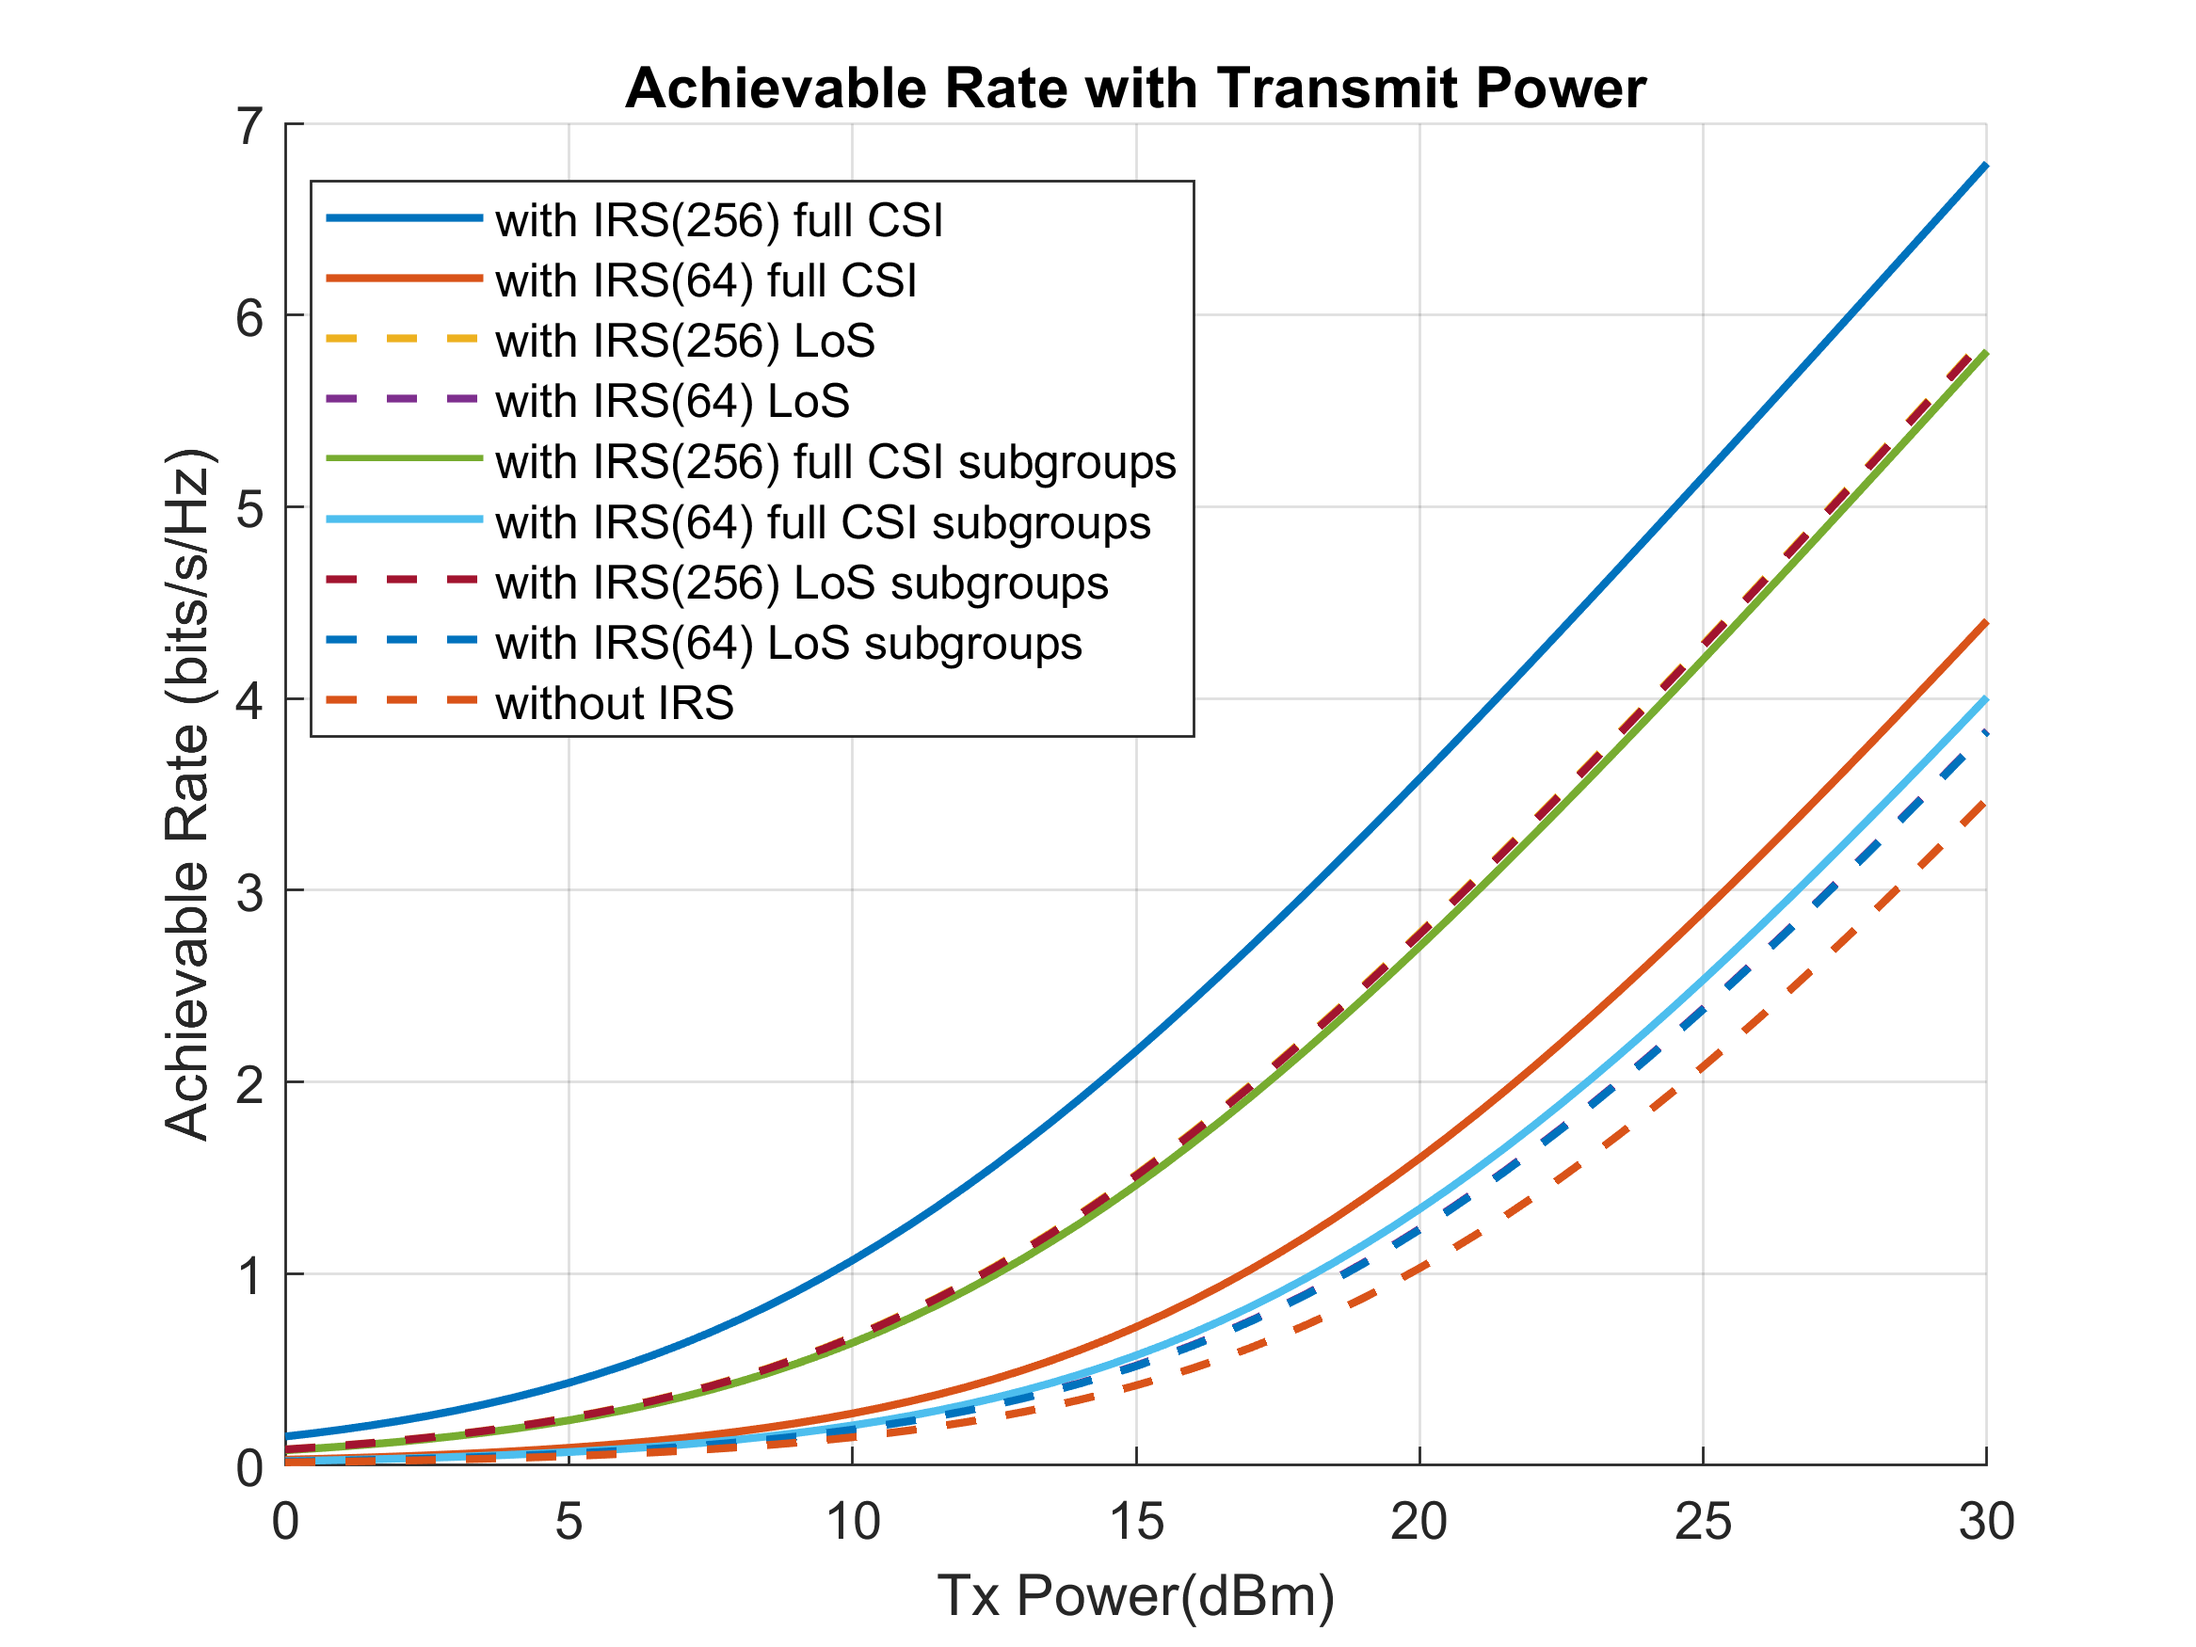
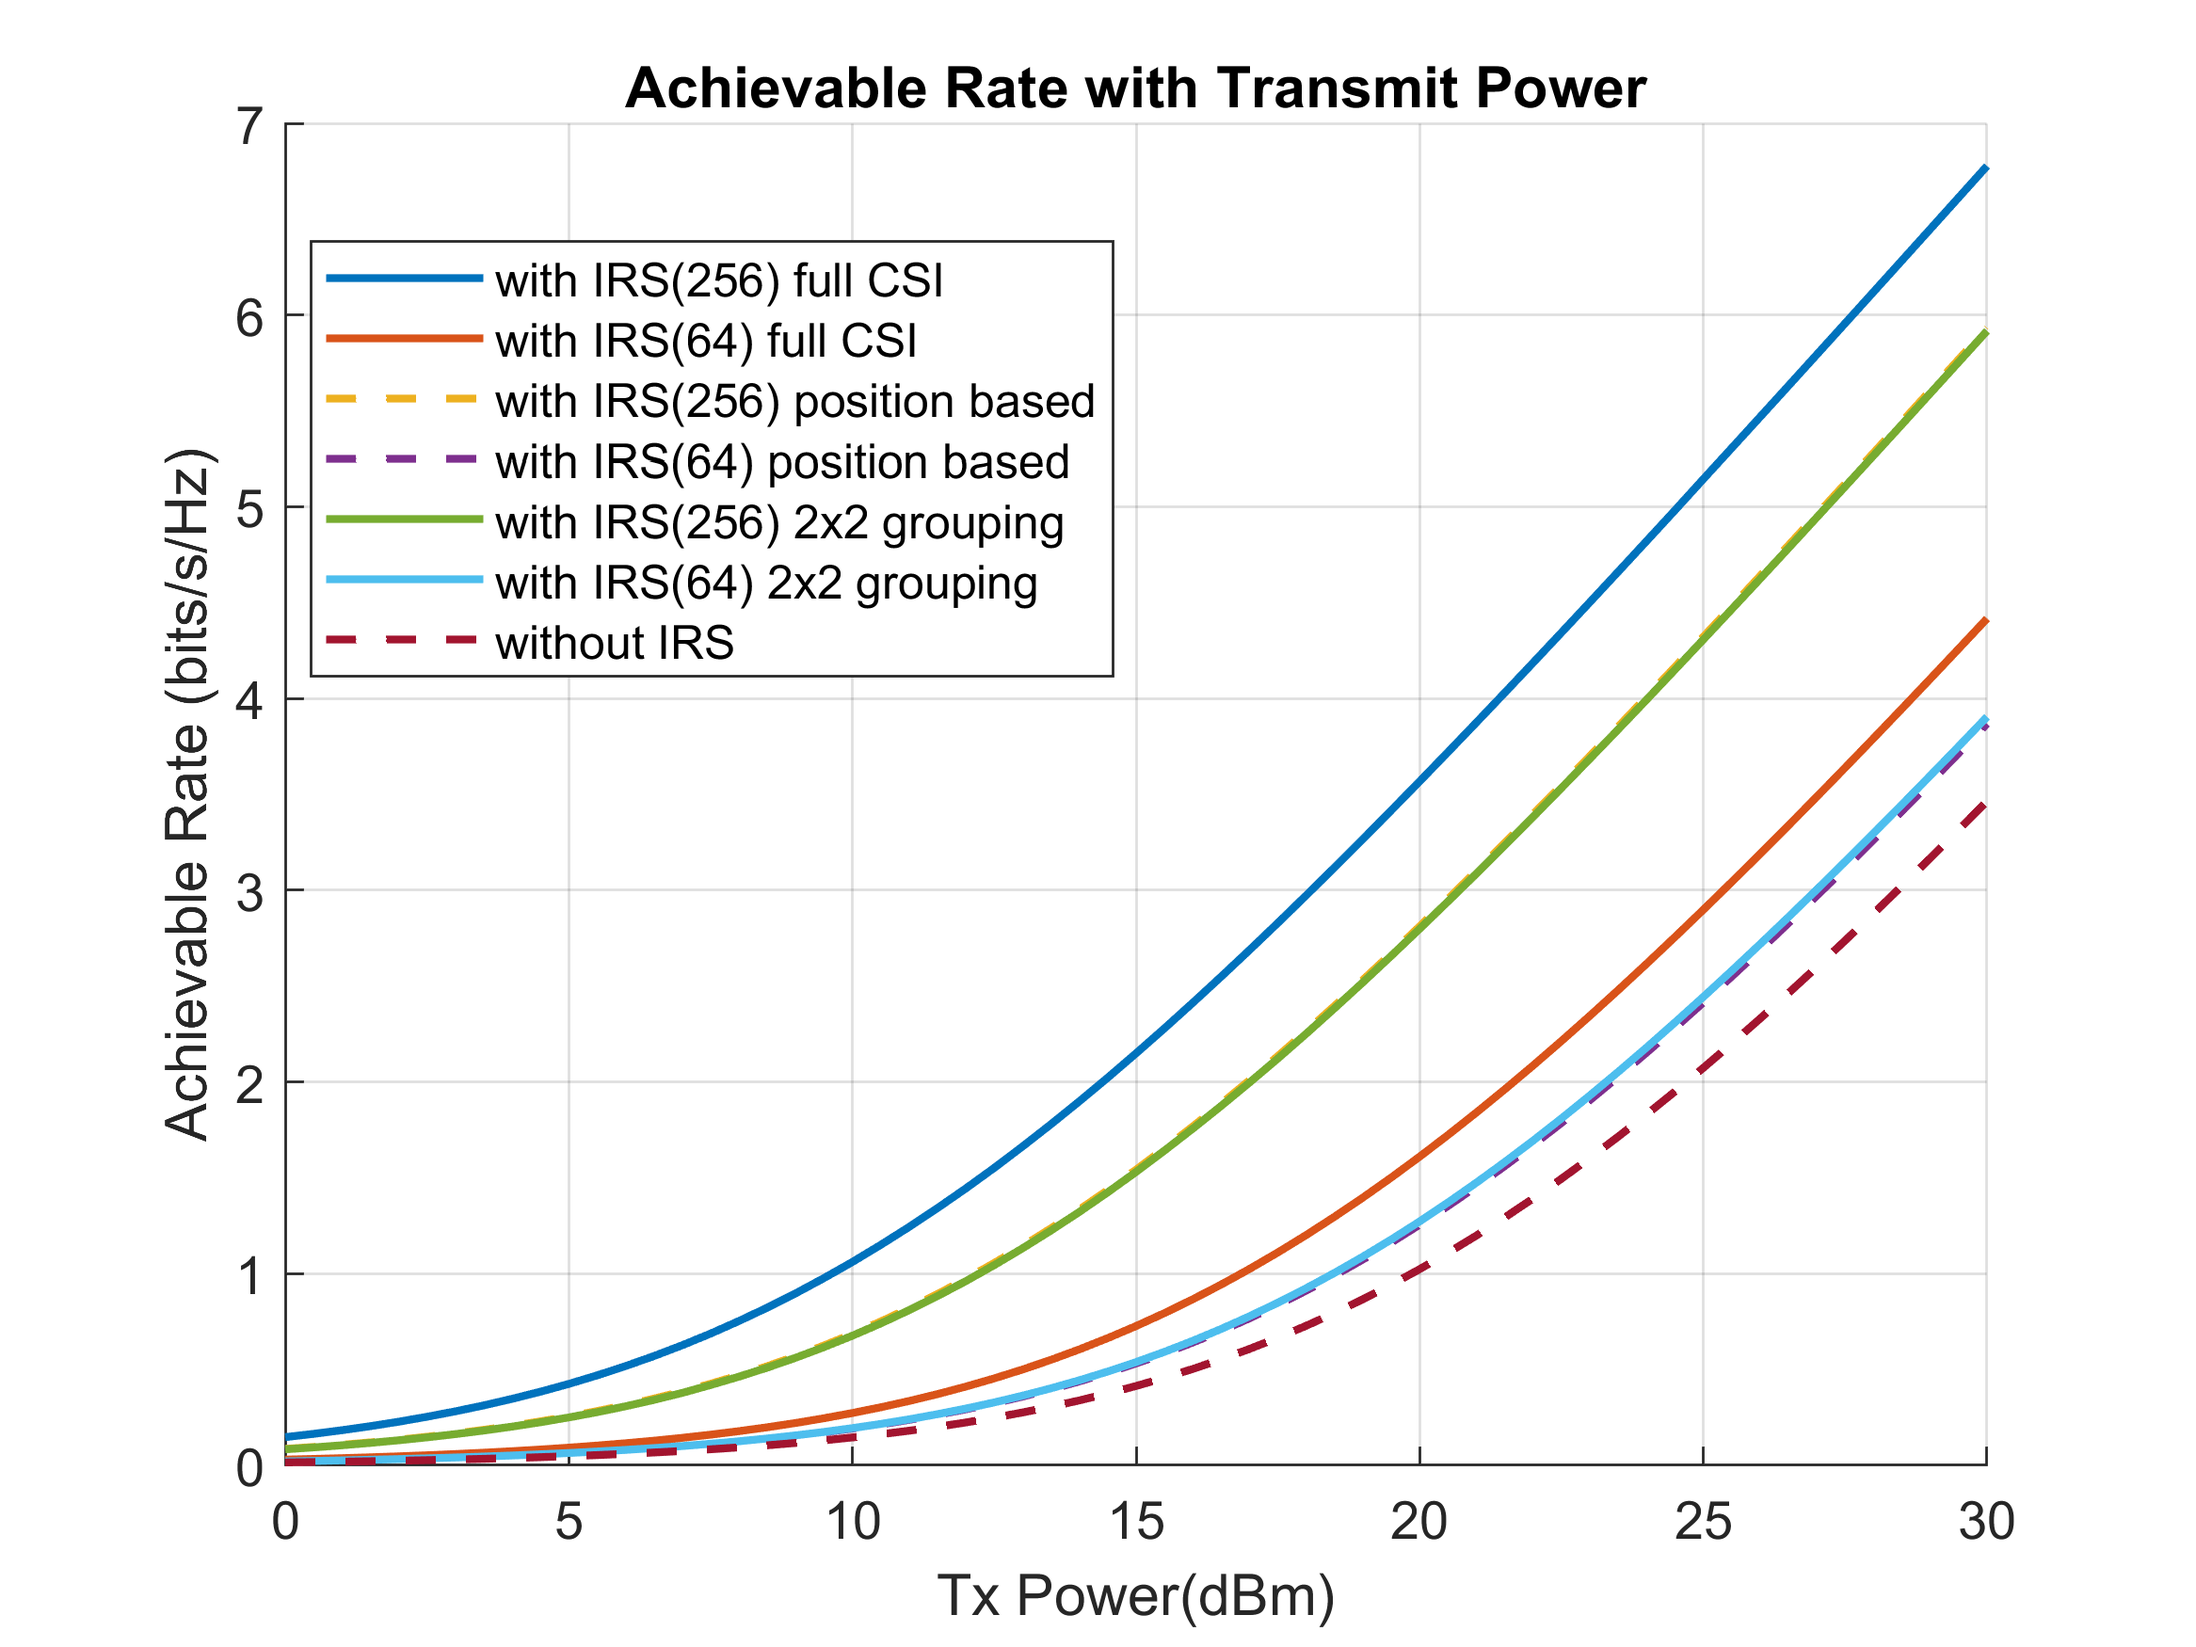
Simulate trajectory with doppler

diff --git a/plot_rate_vs_txpower.m b/plot_rate_vs_txpower.m
@@ -75,7 +75,7 @@ R_irs_64_sub = zeros(num_points,1);
 R_nirs = zeros(num_points,1);
 
 
-for j=1:sim1.angle_realizations
+parfor j=1:sim1.angle_realizations
     fprintf('Iterating angle realization %d\n', j);
     for n=1:sim1.n_trials
         [R_irs_256_1_full, R_irs_256_1, R_nirs_1] = simulate(...
@@ -115,7 +115,7 @@ R_irs_64_full_sub = R_irs_64_full_sub/(sim1.n_trials*sim1.angle_realizations);
 R_irs_256_sub = R_irs_256_sub/(sim1.n_trials*sim1.angle_realizations);
 R_irs_64_sub = R_irs_64_sub/(sim1.n_trials*sim1.angle_realizations);
 R_nirs = R_nirs/(sim1.n_trials*sim1.angle_realizations);
-save('data_txpower2');
+save('data_txpower3');
 
 %%
 fig1 = figure;
@@ -126,18 +126,22 @@ plot(p_sig_dBm, R_irs_256,'--','LineWidth',1.5);
 plot(p_sig_dBm, R_irs_64,'--','LineWidth',1.5);
 plot(p_sig_dBm, R_irs_256_full_sub,'-','LineWidth',1.5);
 plot(p_sig_dBm, R_irs_64_full_sub,'-','LineWidth',1.5);
-plot(p_sig_dBm, R_irs_256_sub,'--','LineWidth',1.5);
-plot(p_sig_dBm, R_irs_64_sub,'--','LineWidth',1.5);
+% plot(p_sig_dBm, R_irs_256_sub,'--','LineWidth',1.5);
+% plot(p_sig_dBm, R_irs_64_sub,'--','LineWidth',1.5);
 plot(p_sig_dBm, R_nirs,'--','LineWidth',1.5);
 hold off;
 grid on;
 xlabel('Tx Power(dBm)');
 ylabel('Achievable Rate (bits/s/Hz)');
+% legend('with IRS(256) full CSI','with IRS(64) full CSI', ...
+%     'with IRS(256) LoS','with IRS(64) LoS',...
+%     'with IRS(256) full CSI subgroups','with IRS(64) full CSI subgroups', ...
+%     'with IRS(256) LoS subgroups','with IRS(64) LoS subgroups',...
+%     'without IRS','Location','best');
 legend('with IRS(256) full CSI','with IRS(64) full CSI', ...
-    'with IRS(256) LoS','with IRS(64) LoS',...
-    'with IRS(256) full CSI subgroups','with IRS(64) full CSI subgroups', ...
-    'with IRS(256) LoS subgroups','with IRS(64) LoS subgroups',...
-    'without IRS','Location','best');
+       'with IRS(256) position based','with IRS(64) position based',...
+       'with IRS(256) 2x2 grouping','with IRS(64) 2x2 grouping',...
+       'without IRS','Location','best');
 title('Achievable Rate with Transmit Power');
 % date = datestr(now,'YYYY.mm.dd.HH.MM');
 print(gcf,'achievable_rate_vs_txpower_all.png','-dpng','-r400');

diff --git a/plot_5a_5b.m b/plot_5a_5b.m
@@ -9,6 +9,8 @@ plot(p_sig_dBm, R_irs_256_full,'-','LineWidth',1.5);
 plot(p_sig_dBm, R_irs_64_full,'-','LineWidth',1.5);
 plot(p_sig_dBm, R_irs_256,'--','LineWidth',1.5);
 plot(p_sig_dBm, R_irs_64,'--','LineWidth',1.5);
+plot(p_sig_dBm, R_irs_256_full_sub,'--','LineWidth',1.5);
+plot(p_sig_dBm, R_irs_64_full_sub,'--','LineWidth',1.5);
 plot(p_sig_dBm, R_nirs,'-','LineWidth',1.5);
 hold off;
 grid on;
@@ -16,6 +18,7 @@ xlabel('Tx Power (dBm)');
 ylabel('Achievable Rate (bits/s/Hz)');
 legend('with IRS(256) full CSI','with IRS(64) full CSI', ...
        'with IRS(256) position based','with IRS(64) position based',...
+       'with IRS(256) 2x2 grouping','with IRS(64) 2x2 grouping',...
        'without IRS','Location','best');
 title('Full CSI vs. Position based Beamforming');
 print(gcf,'achievable_rate_vs_txpower_pos.png','-dpng','-r400');
